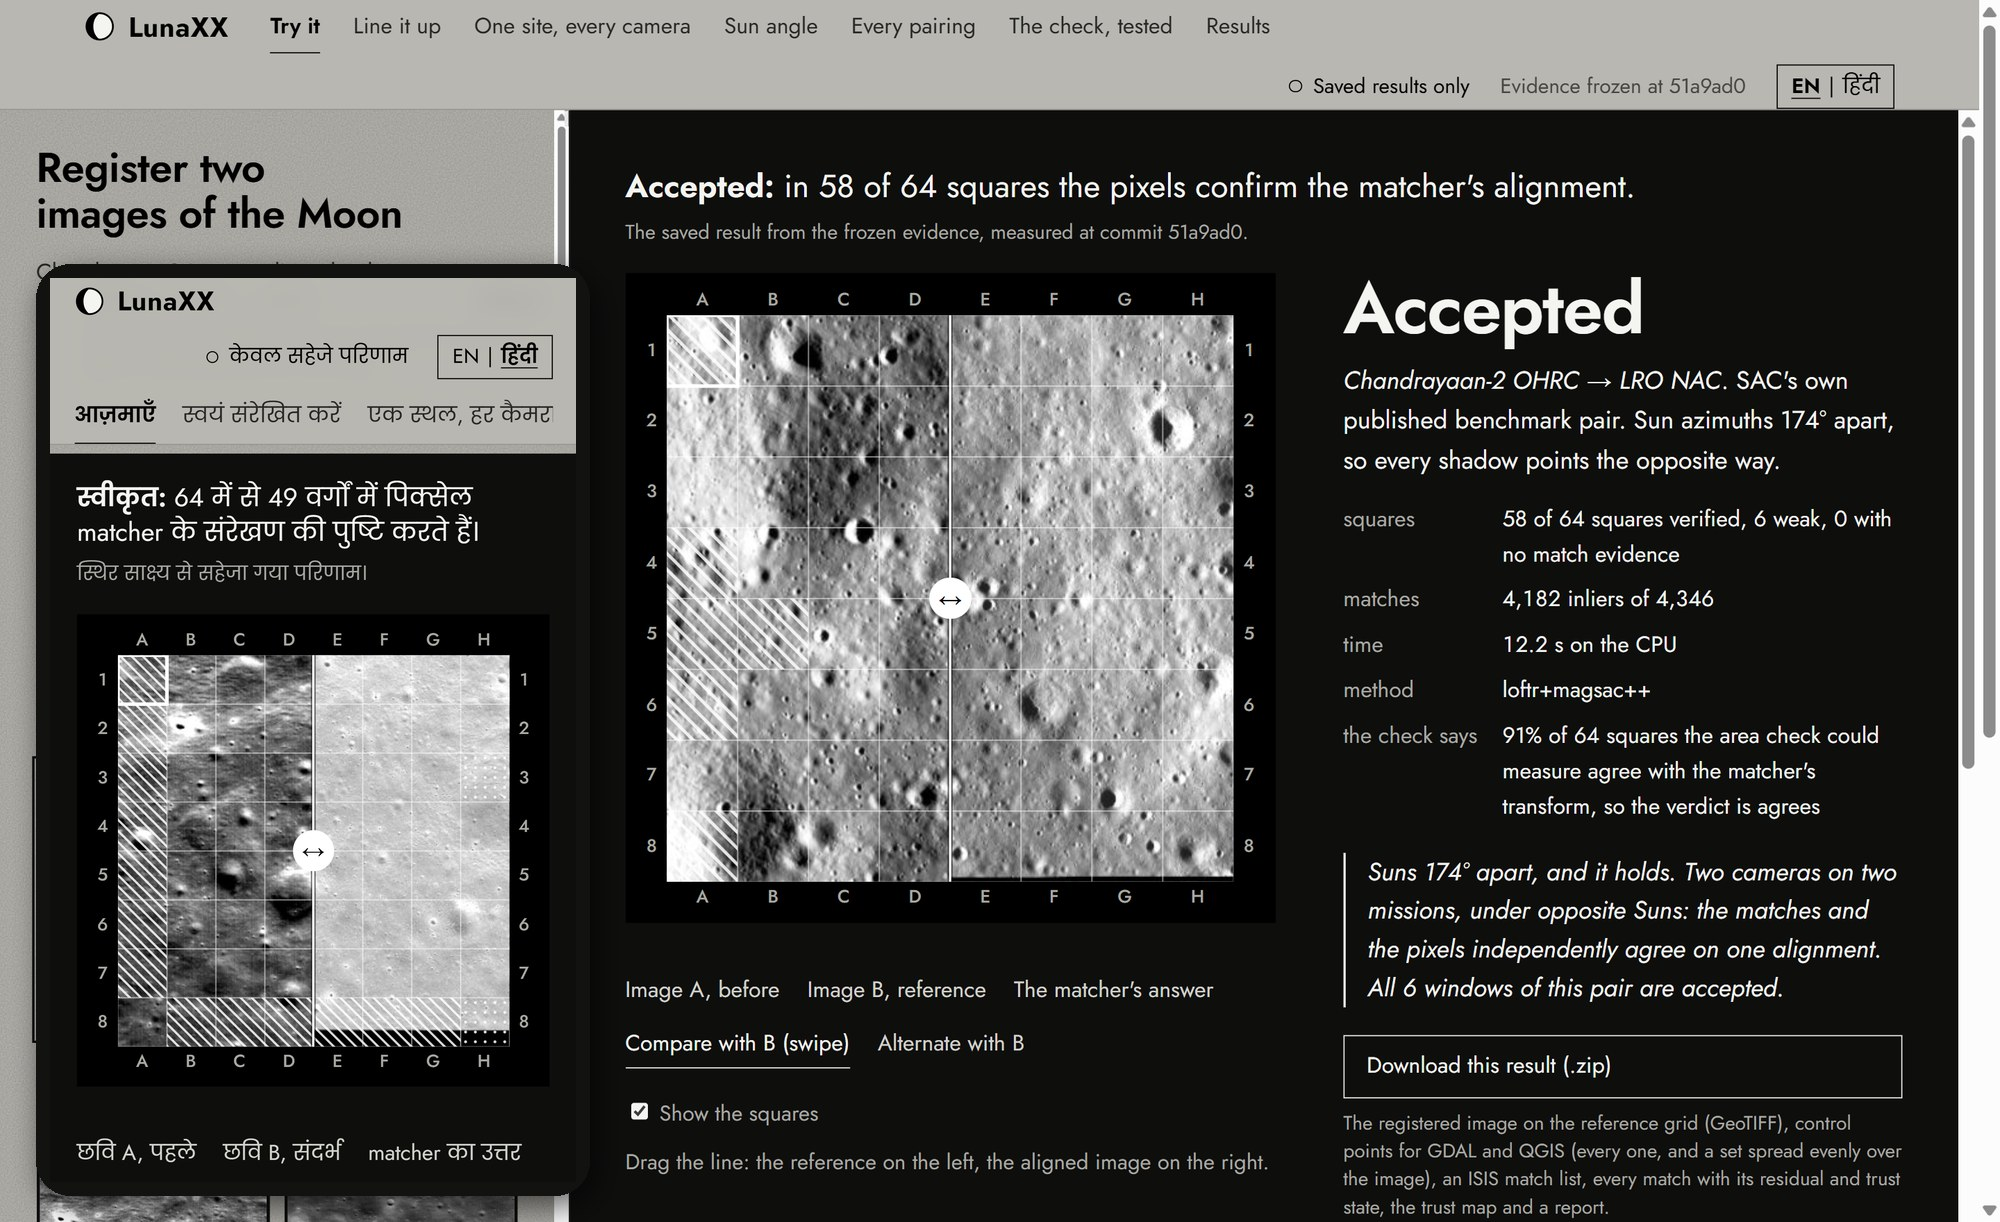
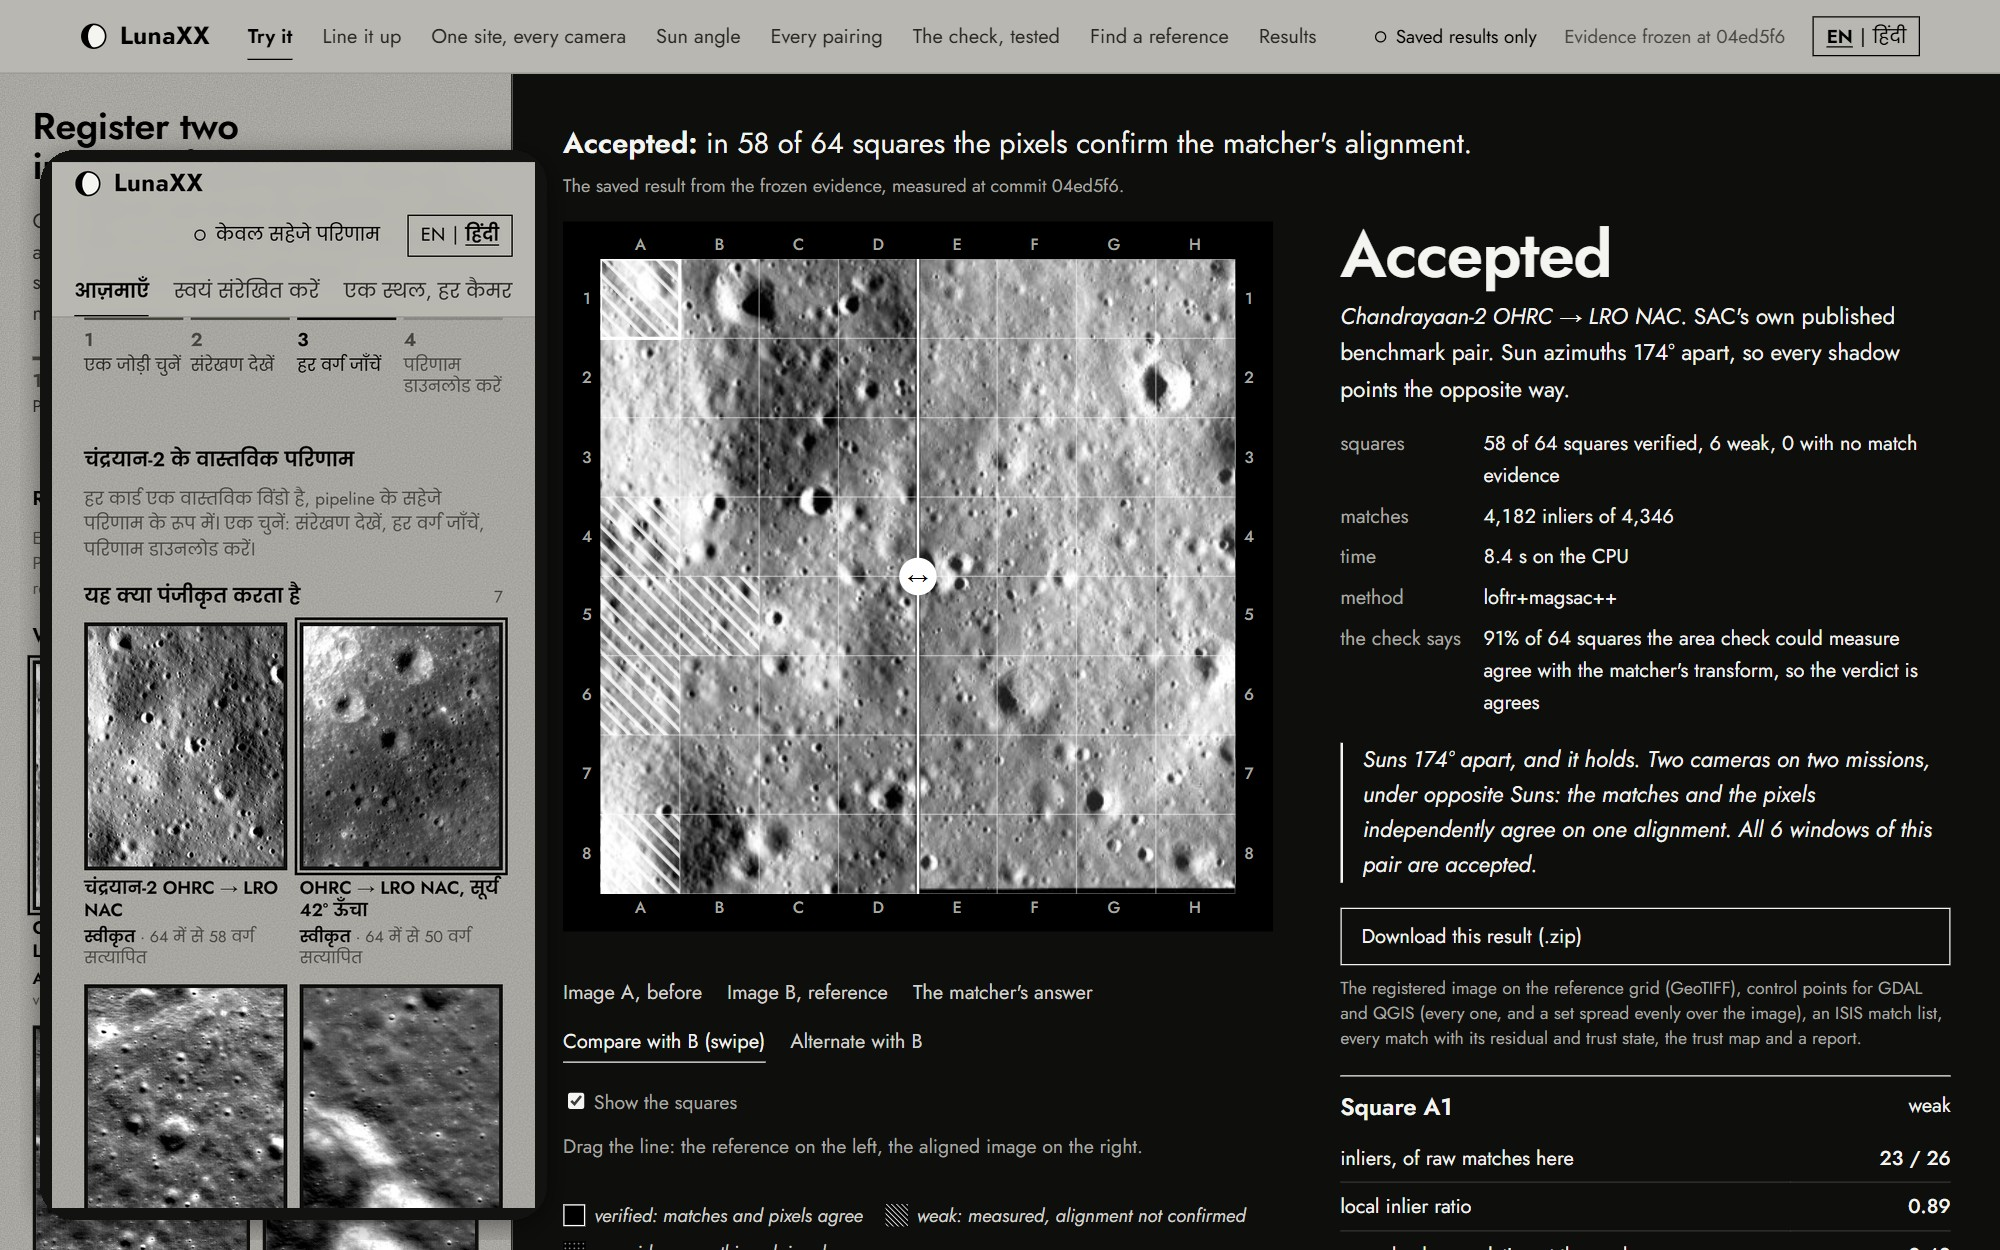
Console v14 at the 04ed5f6 freeze: Find a reference panel (all 300 OHRC observations, searchable by date, id or lat/lon, English and Hindi; 'same pass' = within 30 min), new ledger rows (check points, TC 31/31, WAC strip 44/49, classical head-to-head), fore/aft with the DTM, the residual-check and i

diff --git a/web/console.template.html b/web/console.template.html
@@ -644,7 +644,7 @@ svg.net text{font-family:var(--f)}
     </ul>
 
     <div class="head" style="margin-top:clamp(56px,8vw,96px)"><h2 data-t="hrh">How it runs</h2>
-      <p data-t="hrp">core/pipeline.py, on a laptop CPU with no discrete GPU: a median of 7.7 s per 640-pixel window over 89 OHRC to NAC windows.</p></div>
+      <p data-t="hrp">core/pipeline.py, on a laptop CPU with no discrete GPU: a median of 13.3 s per 640-pixel window over 89 OHRC to NAC windows.</p></div>
     <p class="body" data-t="hrbody">Both images go to one ground scale. Lighting is reduced to gradient orientation. LoFTR matches them densely, tiled, on the CPU; each match is refined to sub-pixel by correlation; MAGSAC++ rejects outliers and fits the transform; the inliers' spread over the 8×8 grid is measured. Then the independent area check cross-correlates the warped image against the reference, square by square, and never reads a match position. It is the only step allowed to overrule the others. If it agrees, the result ships as a GeoTIFF on the reference grid with control points for GDAL and QGIS (all of them, and a set thinned to at most 4 per square so they cover the image), an ISIS match list, the metrics and the trust map. If it is unconfirmed, it is kept and labelled. If it contradicts, the matcher's answer is refused and a phase-correlation fallback is delivered, declared as such, with its uncertainty in metres.</p>
   </div></section>
 </main>
@@ -751,7 +751,7 @@ const T = {
   rf5:'<span><em>MiLOI, सूर्य-सदिश 90° या अधिक अलग</em><small>same sensor</small></span><p>किसी भी विधि ने इनमें से कोई पंजीकृत नहीं किया: हमारी, SIFT, ORB या AKAZE। सभी दृश्य S3 में।</p><b class="num">16 में 0, कोई भी विधि</b>',
   rf6:'<span><em>TMC-2 fore से aft</em><small>same sensor, 50° अलग</small></span><p>उच्चावच का लंबन homography नहीं है। पहले पास के अपने ISRO TMC-2 DTM पर ऑर्थोरेक्टिफ़ाई करने पर 4 में से 2 स्वीकार; अधिक बारीक DTM अगला कदम है।</p><b class="num">4 में 1, DTM पर 4 में 2</b>',
   rf7:'<span><em>OHRC से LOLA छायांकित उच्चावच</em><small>multi-modal, प्रकाशीय से उन्नयन</small></span><p>घोषित विफलता दिखाने के लिए रखा गया: matcher को कुछ नहीं मिलता, सिस्टम यह कहता है, और निर्णय अपुष्ट रहता है (REPORT.md, Declared-failure rung)।</p><b class="num">घोषित विफलता</b>',
-  hrh:'यह कैसे चलता है', hrp:'core/pipeline.py, बिना अलग GPU के लैपटॉप CPU पर: 89 OHRC से NAC विंडो पर प्रति 640-पिक्सेल विंडो 7.7 s की माध्यिका।',
+  hrh:'यह कैसे चलता है', hrp:'core/pipeline.py, बिना अलग GPU के लैपटॉप CPU पर: 89 OHRC से NAC विंडो पर प्रति 640-पिक्सेल विंडो 13.3 s की माध्यिका।',
   hrbody:'दोनों छवियाँ एक ज़मीनी पैमाने पर लाई जाती हैं। प्रकाश को ढलान-दिशा में बदला जाता है। LoFTR उन्हें CPU पर, टाइलों में, घने रूप से मिलाता है; हर मिलान को सहसंबंध से sub-pixel तक परिष्कृत किया जाता है; MAGSAC++ बाहरी बिंदु हटाकर रूपांतरण फ़िट करता है; 8×8 ग्रिड पर inliers का फैलाव मापा जाता है। फिर स्वतंत्र क्षेत्र-जाँच संरेखित छवि का संदर्भ से वर्ग-दर-वर्ग सहसंबंध करती है, और किसी मिलान की स्थिति कभी नहीं पढ़ती। केवल इसी चरण को बाकी को पलटने का अधिकार है। सहमति पर परिणाम संदर्भ ग्रिड पर GeoTIFF के रूप में, GDAL और QGIS के नियंत्रण बिंदुओं (सभी, और प्रति वर्ग अधिकतम 4 वाला समान रूप से फैला सेट), ISIS मिलान-सूची, मापों और trust map के साथ दिया जाता है। अपुष्ट होने पर रखा और चिह्नित किया जाता है। खंडन पर matcher का उत्तर अस्वीकार होता है और phase-correlation fallback, घोषित रूप में, मीटर में अनिश्चितता सहित दिया जाता है।',
   ft1h:'शब्द जिन पर हम टिके हैं', ft1a:'<b>Cross-sensor</b> का अर्थ है अलग उपकरण। NAC से NAC, OHRC से OHRC, और TMC-2 fore से aft एक ही सेंसर हैं और ऐसे ही लिखे जाते हैं।',
   ft1b:'<b>Multi-modal</b> का अर्थ है दृश्य से अवरक्त, या प्रकाशीय से उन्नयन। दो panchromatic कैमरे multi-modal नहीं।', ft1c:'<b>Sub-pixel</b> हमेशा अपना ग्रिड बताता है और मीटर देता है।',
@@ -774,7 +774,7 @@ const T = {
   fSq:'वर्ग', fMt:'मिलान', fInl:'{a} inliers, {b} में से', fTime:'समय', fSec:'CPU पर {s} s', fMeth:'विधि', fWhy:'जाँच कहती है',
   Lsrc:'छवि A, पहले', Lref:'छवि B, संदर्भ', Lwarp:'matcher का उत्तर', Lblink:'B के साथ बारी-बारी', Lswipe:'B से तुलना (खिसकाएँ)', Lfb:'fallback, दिया गया',
   lnBlink:'अगर संरेखित हैं, तो कुछ नहीं उछलता।', lnSwipe:'रेखा को खींचें: बाईं ओर संदर्भ, दाईं ओर संरेखित छवि।', lnRef:'वह उत्तर जिसे जाँच ने अस्वीकार किया।',
-  gridon:'वर्ग दिखाएँ', lgV:'सत्यापित: मिलान और पिक्सेल सहमत', lgW:'कमज़ोर: मापा गया, टिकता नहीं', lgN:'कोई साक्ष्य नहीं: कुछ दावा नहीं',
+  gridon:'वर्ग दिखाएँ', lgV:'सत्यापित: मिलान और पिक्सेल सहमत', lgW:'कमज़ोर: मापा गया, संरेखण पुष्ट नहीं', lgN:'कोई साक्ष्य नहीं: कुछ दावा नहीं',
   rule:'नियम ठीक-ठीक', ruleTxt:'कोई वर्ग तभी सत्यापित है जब उसमें कम से कम 3 inliers हों, स्थानीय inlier अनुपात 0.5 या अधिक हो, और सहसंबंध 2 px के भीतर 0.3 या अधिक पर शिखर दे।',
   gloss:'शब्दों का अर्थ', gHeld:'held-out', gHeldT:'मिलानों का वह 20% जिसे फ़िट ने कभी नहीं देखा; उस पर माध्यिका त्रुटि, संदर्भ ग्रिड के पिक्सेल में।',
   gInl:'inlier', gInlT:'ऐसा मिलान जो MAGSAC++ के फ़िट किए रूपांतरण से सहमत है।', gChk:'क्षेत्र-जाँच', gChkT:'संरेखित छवि को संदर्भ से हर वर्ग में सहसंबंधित करती है; मिलान कभी नहीं पढ़ती, और केवल यही बाकी को पलट सकती है।',
@@ -975,7 +975,7 @@ const VIEWER = id => `<div class="viewer">
     </div>
     <div class="tabs" role="group" aria-label="What the plate shows"></div>
     <div class="row" style="justify-content:space-between"><label class="note"><input type="checkbox" class="gridon" checked> <span data-t="gridon">Show the squares</span></label><span class="note layname"></span></div>
-    <div class="legend"><span>${SW(id, 'v')}<i data-t="lgV">verified: matches and pixels agree</i></span><span>${SW(id, 'w')}<i data-t="lgW">weak: measured, does not hold</i></span><span>${SW(id, 'n')}<i data-t="lgN">no evidence: nothing claimed</i></span></div>
+    <div class="legend"><span>${SW(id, 'v')}<i data-t="lgV">verified: matches and pixels agree</i></span><span>${SW(id, 'w')}<i data-t="lgW">weak: measured, alignment not confirmed</i></span><span>${SW(id, 'n')}<i data-t="lgN">no evidence: nothing claimed</i></span></div>
     <details class="more"><summary data-t="rule">The exact rule</summary><p data-t="ruleTxt">A square is verified only with at least 3 inliers, a local inlier ratio of 0.5 or more, and a correlation that peaks within 2 px at 0.3 or more.</p></details>
   </div>
   <div class="col">

diff --git a/presentation/build_deck.py b/presentation/build_deck.py
@@ -660,12 +660,12 @@ def slide3(s):
     # 7.7 s per 640-px window (89 OHRC → NAC windows)" - the cold reader who reached it called it "your
     # best answer to cherry-picking, and it appears on no slide", and both asked whether "windows" are
     # tiles or scenes (2 Oct). The 7.7 s stays in the portal description.
-    # v12: the 6.0 min is REPORT's own figure at the e38a69a freeze ("Archive scale": "13.1 km² in 6.0
+    # v12: the 10.5 min is REPORT's own figure at the 04ed5f6 freeze ("Archive scale": "13.1 km² in 10.5
     # min"). "A whole strip": 58 windows = 940 km, accepted 58/58, cutting 2.9 min + registration 1.4 min.
     _box(s, L, 6.30, 8.25, 0.50,
          [P(R("Hardware: ", 12.5, True, ACCENT),
-            R("laptop CPU, offline: 13.1 km² overlap registered in 6.0 min (37/37); 940 km TMC-2 → IIRS "
-              "strip cut and registered in 4.3 min (58/58)",
+            R("laptop CPU, offline: 13.1 km² overlap registered in 10.5 min (37/37); 940 km TMC-2 → IIRS "
+              "strip cut and registered in 4.2 min (58/58)",
               12.5, False, INK))],
          fill=FILL_ORANGE, line=LINE_ORANGE, anchor="m", margins=(0.14, 0.03, 0.12, 0.03),
          name="hardware")
@@ -825,7 +825,7 @@ def slide5(s):
     _tab(s, L, 1.33, H[0])
     fy, fh = 1.74, 1.62
     # v12: "Archive scale": 311 calibrated OHRC products covering 23,651 km²; at the measured whole-
-    # overlap rate, all of it is about 181 laptop-hours ("a projection from one measured rate").
+    # overlap rate, all of it is about 314 laptop-hours ("a projection from one measured rate").
     _box(s, L, fy, 1.75, fh,
          [P(R("Chandrayaan-2 archive", 12.5, True, NAVY), align="c"),
           P(R("311 OHRC products, 23,651 km² · TMC-2 · IIRS; LRO, Kaguya references", 11, False,
@@ -835,7 +835,7 @@ def slide5(s):
     _box(s, 2.48, fy, 1.72, fh,
          [P(R("LunaXX", 16, True, WHITE), align="c"),
           P(R("the aligned image plus a verdict per region", 11.5, False, WHITE), align="c", sb=3),
-          P(R("all OHRC: ~181 laptop-hours, projected", 11, True, WHITE), align="c", sb=3)],
+          P(R("all OHRC: ~314 laptop-hours, projected", 11, True, WHITE), align="c", sb=3)],
          fill=NAVY, name="imp-core")
     targets = [
         ("Landing-site safety", " — hazard maps rest on the alignment"),
@@ -949,7 +949,7 @@ REFS = [
 # REPORT.md" was not literally true (audit, 2 Oct). "Result": a grid size or a place is not one.
 # v12: the 3 Oct freeze re-ran every row at e38a69a; its report step wrote REPORT.md with that code.
 PROVENANCE = ("Every result is in REPORT.md, or a count or sum of its rows, measured at the freeze "
-              "commit e38a69a.")
+              "commit 04ed5f6.")
 
 
 def slide6(s):
@@ -982,9 +982,9 @@ def slide6(s):
              R("python -m web.server registers your own images on a laptop.", 12, False, INK),
              sa=5),
            # v12: the whole strip is timed and the Sun finder is built (slides 3 and 4), so they leave
-           # "Next"; the archive run is REPORT's "about 181 laptop-hours" projection.
+           # "Next"; the archive run is REPORT's "about 314 laptop-hours" projection.
            P(R("Next: ", 12, True, NAVY),
-             R("run the whole OHRC archive (about 181 laptop-hours); Suns 60–120° apart against "
+             R("run the whole OHRC archive (about 314 laptop-hours); Suns 60–120° apart against "
                "DTM-relit references; relief with a finer DTM.", 12, False, INK), sa=5),
            P(R(PROVENANCE, 11, False, MUTED), sa=5),
            P(R("Every chart and screenshot is made by our own code; methods and data are credited "

diff --git a/web/build_console.py b/web/build_console.py
@@ -29,7 +29,7 @@ from web.panel import jpg, panel
 ROOT = pathlib.Path(__file__).resolve().parent.parent
 DATA = pathlib.Path((ROOT / "data_path.txt").read_text(encoding="utf-8-sig").strip())
 HERE = pathlib.Path(__file__).resolve().parent
-FREEZE = "1bb630f"
+FREEZE = "04ed5f6"
 REPO = "https://github.com/samarthputhraya/sih26166"
 sys.path.insert(0, str(ROOT))
 
@@ -312,7 +312,7 @@ for _s in ("**accepted 31/31**", "(median 287 m)", "**accepted 44/49**", "agrees
            "Accepted: **1/4 without the DTM, 2/4 with it.**", "the residual threshold flags **0 of 1056**",
            "the area check flags **1056 of 1056**", "| 6 | 6/6 | 0/6 | 0/6 | 0/6 |", "| 56 | 48/56 | 0/56 | 0/56 | 0/56 |",
            "one click's precision is a median 1.47 m", "85.9%", "99.2%",
-           "**208 of 300** have an image from ANOTHER orbit lit within 5°"):
+           "**208 of 300** have an image from ANOTHER orbit lit within 5°", "median 13.3 s over the 89"):
     _printed(_s)
 if UNPRINTED:
     raise SystemExit("Site N values that REPORT.md does not print - regenerate REPORT.md or fix the "
@@ -339,11 +339,13 @@ def _finder():
             return _dt.datetime.fromisoformat(str(s).strip().replace("Z", "").replace(" ", "T")[:26])
         except ValueError:
             return None
+    # "same pass": taken within 30 min of the frame (TMC-2 and IIRS image alongside OHRC within
+    # minutes). Chandrayaan-2's orbit is ~118 min, so the next orbit is never labelled same pass.
     out, default = [], 0
     for i, tg in enumerate(idx["targets"]):
         t0 = ts(tg["time"])
         cands = [[c["id"], c["instrument"], c["overlap"], c["sun_angle"], c["d_azimuth"], day(c["time"]),
-                  bool(t0 and ts(c["time"]) and abs((ts(c["time"]) - t0).total_seconds()) < 7200)]
+                  bool(t0 and ts(c["time"]) and abs((ts(c["time"]) - t0).total_seconds()) < 1800)]
                  for c in tg["candidates"]]
         out.append([tg["id"], day(tg["time"]), tg["centre"][0], tg["centre"][1], tg["incidence"], tg["azimuth"], cands])
         if tg["id"] == "ch2_ohr_ncp_20250612T2031048828_d_img_d18":
